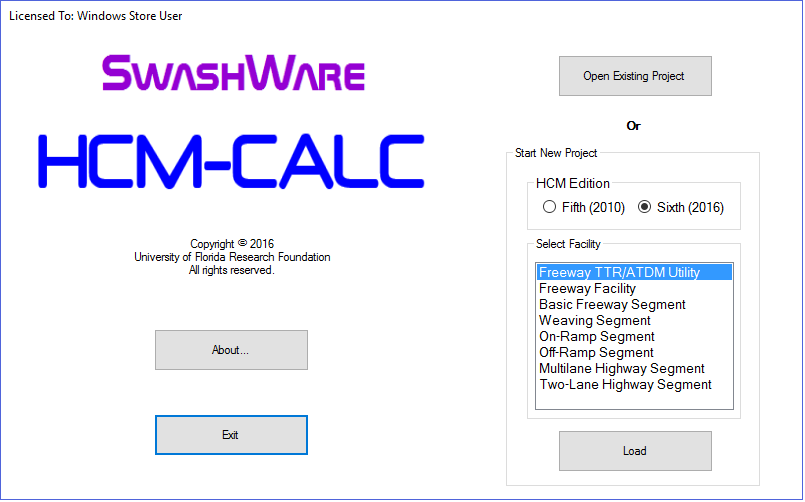
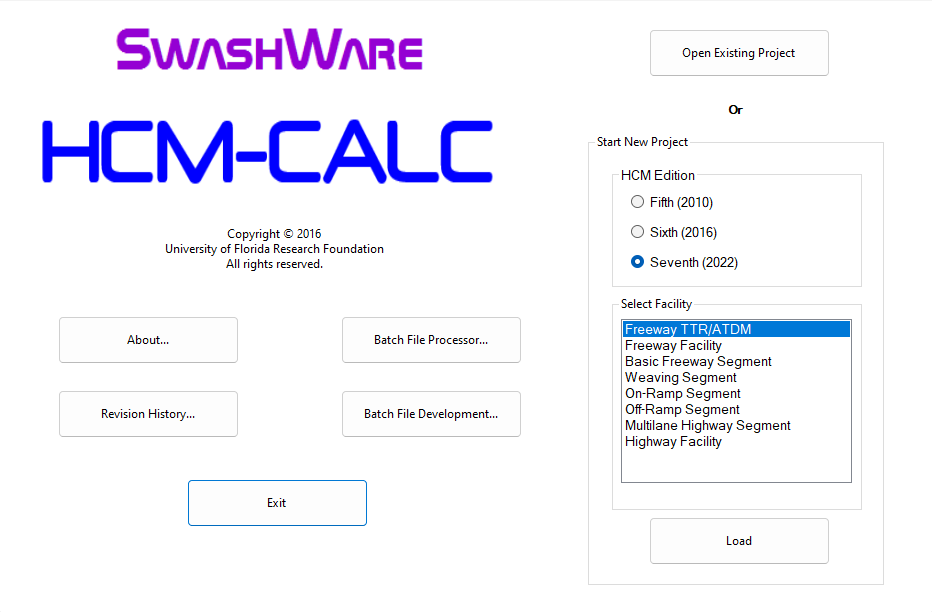
Summary information updates

diff --git a/README.md b/README.md
@@ -1,17 +1,11 @@
 # HCM-CALC
-Calculation Software for the Uninterrupted Flow Analysis Methodologies of the Highway Capacity Manual: 5th (2010) and 6th (2016) Editions
+Calculation Software for the Uninterrupted Flow Analysis Methodologies of the Highway Capacity Manual: 5th (2010), 6th (2016), and 7th (2022) Editions
 
 Developed by <a href="https://faculty.eng.ufl.edu/scott-washburn/">Dr. Scott Washburn</a>
 
-HCM-CALC is currently available (at no cost) from the <a href="https://www.microsoft.com/en-us/store/p/hcm-calc/9nblggh538w4">Microsoft Store</a>
-
-Note that HCM-CALC only runs on the Windows operating system. To install HCM-CALC from the Microsoft Store, your computer must be running at least the Windows 10 Anniversary Update operating system. The Windows 10 Anniversary Update version is indicated by one of two numbers: 1607 and/or 14393, as shown in the dialog below.  This dialog can be viewed by running the 'winver' utility (through the command prompt or typing into the search bar).
-
-To install on older versions of Windows, please contact Dr. Washburn to obtain a different installation package for the software. If you have Windows 10 but your employer does not allow access to the Microsoft Store, the alternative installation method also works for Windows 10. Instructions for this other installation method are <a href="AltInstallation.md">here.</a> This install package will be made available as direclty-downloadable release in the near future.
+While HCM-CALC is available (at no cost) from the <a href="https://www.microsoft.com/en-us/store/p/hcm-calc/9nblggh538w4">Microsoft Store</a>, this version is no longer supported. An installation package for the program will be made available directly from this GitHub site. It is expected that this will be available in late Spring 2024, coinciding with the release of the final publication material for project <a href="https://apps.trb.org/cmsfeed/TRBNetProjectDisplay.asp?ProjectID=4747">NCHRP Project 08-135</a>. In the meantime, if you would like a copy of the program, just contact Dr. Washburn (swash@ce.ufl.edu) to receive the installation package. Installation instructions are <a href="InstallInstructions.md">here.</a>.
 
 See the latest version release notes <a href="LatestReleaseNotes.md">here.</a>
-
-<img alt="Windows Version" src="Win10ver.jpg" />
 
 <img alt="StartScreen" src="StartScreen.png" />
 
@@ -20,4 +14,4 @@ See the latest version release notes <a href="LatestReleaseNotes.md">here.</a>
 * <a href="FreewayFacility\FreewayFacility.md">More information about the Freeway Facility module</a>
 * <a href="TTR_ATDM\TTR_ATDM.md">More information about the Freeway Facility TTR/ATDM module</a>
 * <a href="https://www.youtube.com/channel/UCNZCZ00coz8na0MtHBhdetg/videos.html">Introductory videos on HCM-CALC installation and operation</a>
-* <a href="http://www.trb.org/main/blurbs/175169.aspx">TRB web page for HCM 6th Edition</a>
+* <a href="https://nap.nationalacademies.org/catalog/26432/highway-capacity-manual-7th-edition-a-guide-for-multimodal-mobility">TRB web page for HCM 7th Edition</a>

diff --git a/LatestReleaseNotes.md b/LatestReleaseNotes.md
@@ -2,20 +2,11 @@
 <p align="center"><b><font size="5" color="990000">Latest Release Notes</font></b></p>
 <hr />
 
-Current Release Version Date: October 2020
+Current Release Version Date: March 2024
 
-The revisions from the previous version (April 2019) include the following:
-
-<p><b>Two-lane Highway Facility module</b></p>
-<p>1) Since the new two-lane highway methodology developed from <a href="http://www.trb.org/main/blurbs/177835.aspx">NCHRP Project 17-65</a> is now officially included in the HCM, this module is now considered official and thus the 'prototype' information screen has been removed from the module. The superseded two-lane highway segment module remains for now, but will eventually be deprecated.</p>
-<p>2) Updates to the file creation utility for the SwashSim microscopic traffic simulation program</p>
-<p></p>
-<p><b>Freeway Facility module</b></p>
-<p>1) Updates to the file creation utility for the SwashSim microscopic traffic simulation program</p>
-<p></p>
-<p><b>On-/Off-Ramp Segments modules</b></p>
-<p>1) Addition of ramp roadway v/c ratio limit check for service volume calculations </p>
-<p>2) Revised footnote labels for service volumes (in service volumes screen and formatted report)</p>
+Date: 1/2/2024
+1) Added new module for highway facilities. This module can be used for individual two-lane or multilane highway segment analysis. It can also be used for highway facility analysis. See HCM (7th Edition) Chapter 15 and the Guidebook produced for NCHRP Project 08-135 (https://apps.trb.org/cmsfeed/TRBNetProjectDisplay.asp?ProjectID=4747).
+2) Added option for HCM 7th Edition on start-up screen.
 
 
 

diff --git a/InstallInstructions.md b/InstallInstructions.md
@@ -1,0 +1,7 @@
+<p align="center"><b><font size="6" color="0000FF">HCM-CALC</font></b></p>
+<p align="center"><b><font size="5" color="990000">Alternative Installation Method</font></b></p>
+<hr />
+
+Download the installation files (HCMCalc_InstallProject.msi and setup.exe) from the link provided in my Email message.  Place these files in any folder on your computer and then run 'setup.exe'. These two files can be deleted once the installation is complete.
+
+HCM-CALC only runs on the Windows operating system and 64-bit CPU architecture. You also need version 7, or higher, of the .NET Desktop Runtime installed on your computer. The installation process should give you a warning if you do not have the required version of the .NET Desktop Runtime and give you an option to download and install it from Microsoft's website. But if you have any problem starting the program after installation, this should be the first thing to check.  You can check which version of .NET you have installed in your Programs and Features section of the Control Panel.  If needed, you can download the latest version, for free, from <a href="https://dotnet.microsoft.com/en-us/download/dotnet/7.0">.NET Desktop Runtime download link</a>. On this page, find the section for the most recent version of the .NET Desktop Runtime. From there, select the 'x64' Windows OS option.
